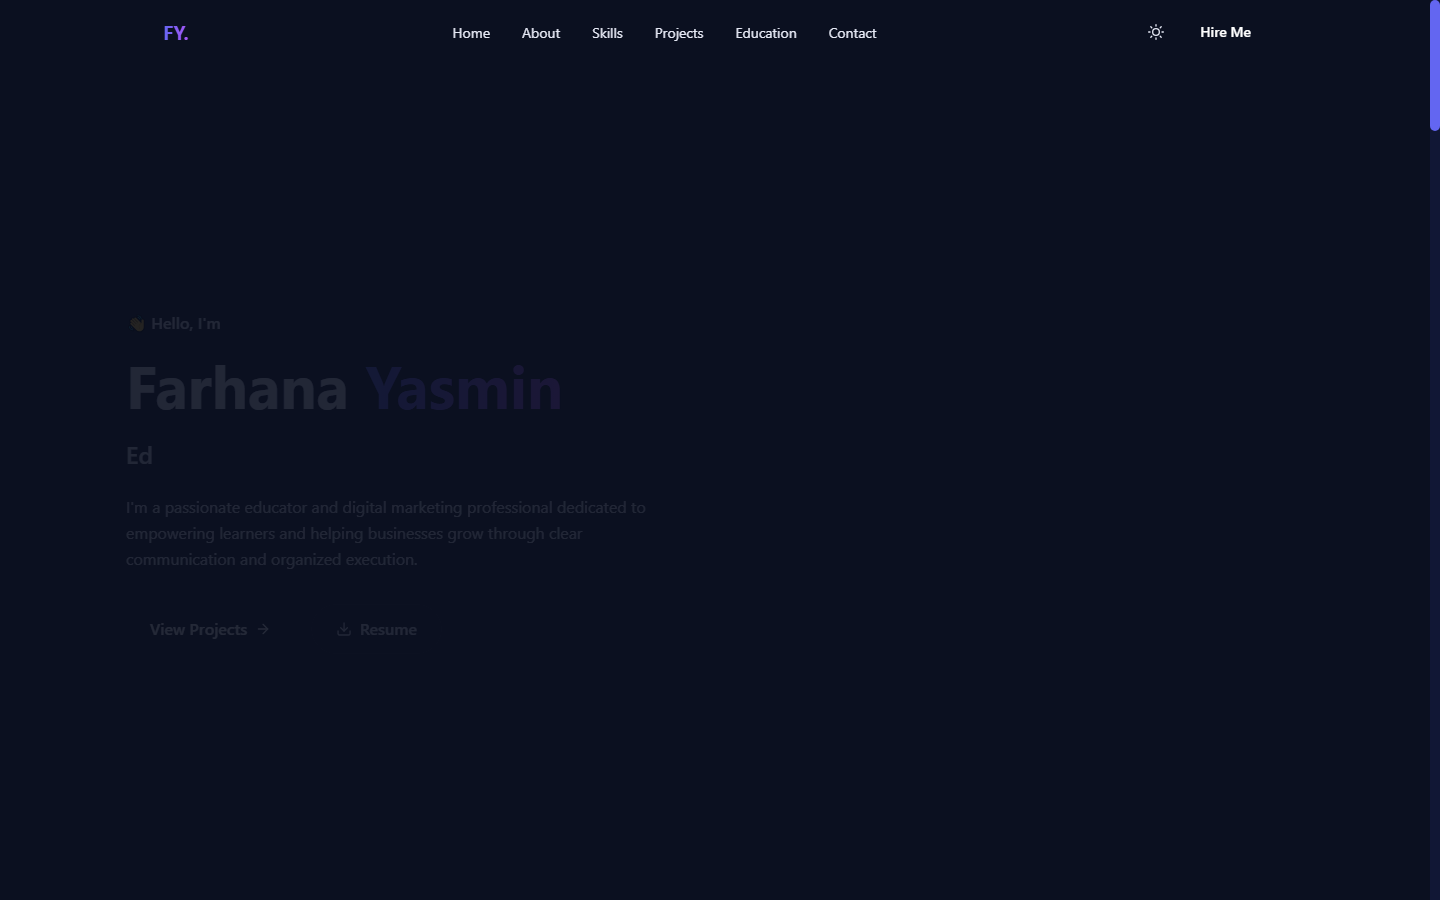
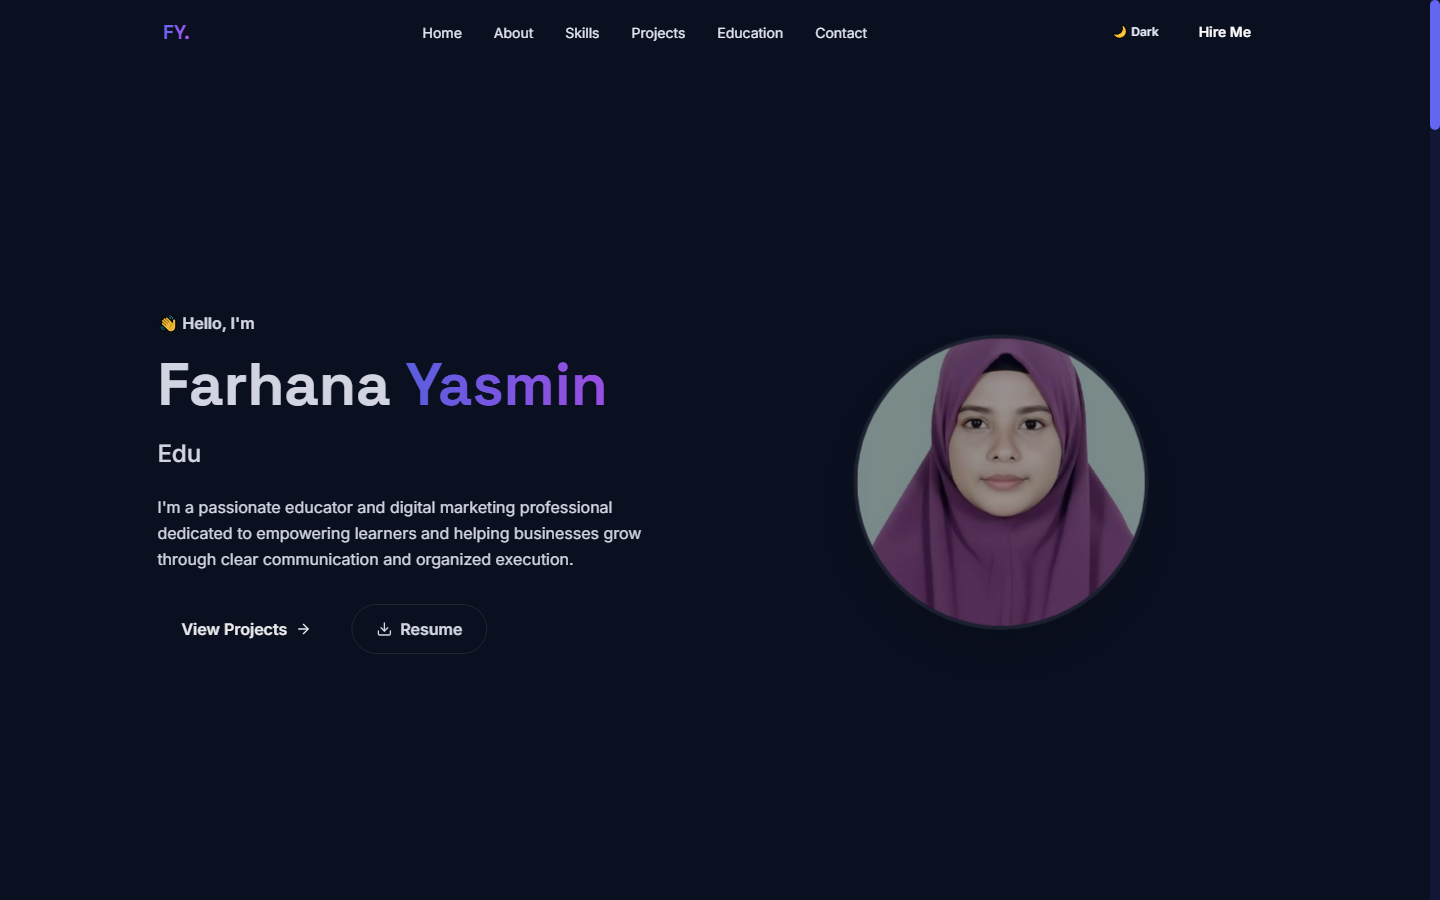
Add brutalist theme and screenshots

diff --git a/src/index.css b/src/index.css
@@ -50,4 +50,32 @@ section { scroll-margin-top: 80px; }
 .card { background: var(--card); border: 1px solid rgba(255,255,255,.06); }
 .light .card { border-color: rgba(0,0,0,.06); }
 .glass { background: rgba(255,255,255,.05); backdrop-filter: blur(12px); }
+
+/* Brutalist theme overrides */
+html.brutalist {
+  --bg: #f5f5f5;
+  --bg-soft: #e5e5e5;
+  --card: #ffffff;
+  --text: #000000;
+  --muted: #1a1a1a;
+  --accent: #000000;
+  --accent-2: #ff2d00;
+}
+html.brutalist body { font-family: 'Space Grotesk', system-ui, sans-serif; background-image: repeating-linear-gradient(0deg, transparent, transparent 39px, rgba(0,0,0,.06) 39px, rgba(0,0,0,.06) 40px); }
+html.brutalist * { border-radius: 0 !important; }
+html.brutalist .card { border: 3px solid #000 !important; box-shadow: 6px 6px 0 #000 !important; background: #fff !important; }
+html.brutalist .glass { background: #fff !important; backdrop-filter: none !important; }
+html.brutalist .gradient-text { background: none !important; -webkit-text-fill-color: #000 !important; color: #000 !important; text-decoration: underline; text-decoration-thickness: 6px; text-decoration-color: var(--accent-2); }
+html.brutalist button, html.brutalist a { border-radius: 0 !important; }
+html.brutalist .rounded-full { border-radius: 0 !important; }
+html.brutalist input, html.brutalist textarea { border: 3px solid #000 !important; background: #fff !important; color: #000 !important; box-shadow: 4px 4px 0 #000 !important; }
+html.brutalist .bg-gradient-to-r { background: #000 !important; }
+html.brutalist section { border-bottom: 4px solid #000; }
+html.brutalist .animate-pulse { display: none !important; }
+html.brutalist img { filter: grayscale(1) contrast(1.1); border: 4px solid #000 !important; box-shadow: 8px 8px 0 #000 !important; }
+html.brutalist ::-webkit-scrollbar-thumb { background: #000; }
+html.brutalist .h-2.rounded-full { background: #e5e5e5 !important; border: 2px solid #000; box-shadow: none !important; }
+html.brutalist .h-2.rounded-full > div { background: #000 !important; }
+html.brutalist nav { border-bottom: 4px solid #000; }
+html.brutalist header { background: #fff !important; backdrop-filter: none !important; }
 `

diff --git a/src/context/ThemeContext.tsx b/src/context/ThemeContext.tsx
@@ -1,23 +1,27 @@
 import { createContext, useContext, useEffect, useState } from 'react'
 
-type Theme = 'dark' | 'light'
+type Theme = 'dark' | 'light' | 'brutalist'
 interface Ctx { theme: Theme; toggle: () => void }
 const ThemeCtx = createContext<Ctx>({ theme: 'dark', toggle: () => {} })
+const cycle: Theme[] = ['dark', 'light', 'brutalist']
 
 export function ThemeProvider({ children }: { children: React.ReactNode }) {
   const [theme, setTheme] = useState<Theme>(() => {
     if (typeof window !== 'undefined') {
-      return (localStorage.getItem('theme') as Theme) || 'dark'
+      const fromUrl = new URLSearchParams(window.location.search).get('theme') as Theme
+      if (cycle.includes(fromUrl)) return fromUrl
+      const stored = localStorage.getItem('theme') as Theme
+      return cycle.includes(stored) ? stored : 'dark'
     }
     return 'dark'
   })
   useEffect(() => {
-    document.documentElement.classList.toggle('light', theme === 'light')
-    document.documentElement.classList.toggle('dark', theme === 'dark')
+    document.documentElement.classList.remove('light', 'dark', 'brutalist')
+    document.documentElement.classList.add(theme)
     localStorage.setItem('theme', theme)
   }, [theme])
   return (
-    <ThemeCtx.Provider value={{ theme, toggle: () => setTheme(t => t === 'dark' ? 'light' : 'dark') }}>
+    <ThemeCtx.Provider value={{ theme, toggle: () => setTheme(t => cycle[(cycle.indexOf(t) + 1) % cycle.length]) }}>
       {children}
     </ThemeCtx.Provider>
   )

diff --git a/src/components/Navbar.tsx b/src/components/Navbar.tsx
@@ -1,6 +1,6 @@
 import { useEffect, useState } from 'react'
 import { motion, AnimatePresence } from 'framer-motion'
-import { FiMenu, FiX, FiSun, FiMoon } from 'react-icons/fi'
+import { FiMenu, FiX } from 'react-icons/fi'
 import { useTheme } from '../context/ThemeContext'
 
 const links = [
@@ -41,8 +41,8 @@ export default function Navbar() {
           ))}
         </ul>
         <div className="flex items-center gap-3">
-          <button onClick={toggle} aria-label="Toggle theme" className="p-2 rounded-full hover:bg-[--bg-soft] transition-colors">
-            {theme === 'dark' ? <FiSun /> : <FiMoon />}
+          <button onClick={toggle} aria-label="Toggle theme" className="px-3 py-2 rounded-full hover:bg-[--bg-soft] transition-colors text-xs font-semibold">
+            {theme === 'dark' ? '🌙 Dark' : theme === 'light' ? '☀ Light' : '⬛ Brutal'}
           </button>
           <a href="#contact" onClick={(e) => { e.preventDefault(); scrollTo('#contact') }} className="hidden md:inline-block px-4 py-2 rounded-full bg-gradient-to-r from-[--accent] to-[--accent-2] text-white text-sm font-semibold hover:opacity-90 transition-opacity">Hire Me</a>
           <button className="md:hidden p-2" onClick={() => setOpen(o => !o)} aria-label="Menu">
